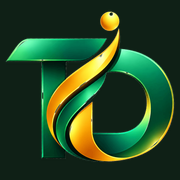
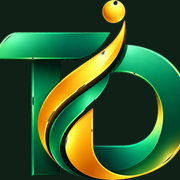
Update WhatsApp/phone number to +27 64 058 4229 site-wide
Replaced the old number (+27 79 168 4548) across every wa.me link, tel:
link, structured data telephone field, and displayed phone number —
navbar, footer, hero, contact page, checkout, onboarding, how-we-work,
payment success/cancel, the contact-form emails, lead-magnet delivery
emails, and legal pages. Also updated two form-field placeholder
examples that happened to use the old number as a format example.

QR codes in public/assets/qr/ are unaffected — they link to landing
page URLs, not the phone number, so nothing there needed regenerating.

Also picked up tishbiteIcon.png, which was re-saved as a larger, fully
transparent version outside this session (not by me) — regenerated the
favicon/apple-touch-icon from it to match.

diff --git a/components/ContactPageContent.jsx b/components/ContactPageContent.jsx
@@ -124,11 +124,11 @@ export default function ContactPageContent() {
                   Whether you need a professional website, CRM integration, automation system, or SEO-driven marketing strategy — we structure systems that scale your business.
                 </p>
                 <div className="space-y-3 mb-5">
-                  <a href="tel:+27791684548" className="flex items-center gap-3 text-white/80 hover:text-accent transition-colors no-underline text-sm">
+                  <a href="tel:+27640584229" className="flex items-center gap-3 text-white/80 hover:text-accent transition-colors no-underline text-sm">
                     <div className="w-9 h-9 rounded-xl bg-white/10 flex items-center justify-center shrink-0">
                       <FaPhone size={14} aria-hidden="true" />
                     </div>
-                    +27 79 168 4548
+                    +27 64 058 4229
                   </a>
                   <a href="mailto:info@tishbitedigital.co.za" className="flex items-center gap-3 text-white/80 hover:text-accent transition-colors no-underline text-sm">
                     <div className="w-9 h-9 rounded-xl bg-white/10 flex items-center justify-center shrink-0">
@@ -138,7 +138,7 @@ export default function ContactPageContent() {
                   </a>
                 </div>
                 <motion.a
-                  href="https://wa.me/27791684548?text=Hello%20Tishbite%20Digital,%20I%20want%20a%20free%20website%20and%20SEO%20audit."
+                  href="https://wa.me/27640584229?text=Hello%20Tishbite%20Digital,%20I%20want%20a%20free%20website%20and%20SEO%20audit."
                   target="_blank"
                   rel="noopener noreferrer"
                   className="flex items-center justify-center gap-2 bg-[#25d366] text-white font-bold py-3 rounded-xl no-underline text-sm"
@@ -322,7 +322,7 @@ export default function ContactPageContent() {
                         We'll be in touch within <strong>24 hours</strong>. Want a faster response?
                       </p>
                       <motion.a
-                        href="https://wa.me/27791684548?text=Hi%20Tishbite%20Digital,%20I%20just%20submitted%20an%20enquiry%20and%20would%20love%20to%20chat."
+                        href="https://wa.me/27640584229?text=Hi%20Tishbite%20Digital,%20I%20just%20submitted%20an%20enquiry%20and%20would%20love%20to%20chat."
                         target="_blank"
                         rel="noopener noreferrer"
                         className="inline-flex items-center gap-2 bg-[#25d366] text-white font-bold px-4 py-2 rounded-lg text-sm no-underline"

diff --git a/app/api/contact/route.js b/app/api/contact/route.js
@@ -50,7 +50,7 @@ function buildNotificationHtml({ name, email, service, message }) {
     </div>
 
     <div style="background:#f9fafb;padding:16px 32px;text-align:center;font-size:12px;color:#9ca3af;border-top:1px solid #e5e7eb;">
-      Tishbite Digital · info@tishbitedigital.co.za · +27 79 168 4548
+      Tishbite Digital · info@tishbitedigital.co.za · +27 64 058 4229
     </div>
   </div>
 </body>
@@ -83,7 +83,7 @@ function buildAutoReplyHtml({ name, service, message }) {
         <ul style="margin:0;padding-left:18px;color:#555;font-size:13px;">
           <li style="margin-bottom:6px;">We'll review your enquiry and prepare a tailored response</li>
           <li style="margin-bottom:6px;">One of our specialists will contact you within 24 hours</li>
-          <li>For urgent matters, WhatsApp us at <a href="https://wa.me/27791684548" style="color:#1b4332;font-weight:bold;">+27 79 168 4548</a></li>
+          <li>For urgent matters, WhatsApp us at <a href="https://wa.me/27640584229" style="color:#1b4332;font-weight:bold;">+27 64 058 4229</a></li>
         </ul>
       </div>
 
@@ -95,7 +95,7 @@ function buildAutoReplyHtml({ name, service, message }) {
 
     <div style="background:#1b4332;padding:20px 32px;text-align:center;">
       <p style="margin:0 0 8px;color:rgba(255,255,255,0.9);font-weight:bold;font-size:14px;">Tishbite Digital</p>
-      <p style="margin:0;color:rgba(255,255,255,0.6);font-size:12px;">info@tishbitedigital.co.za · +27 79 168 4548 · tishbitedigital.co.za</p>
+      <p style="margin:0;color:rgba(255,255,255,0.6);font-size:12px;">info@tishbitedigital.co.za · +27 64 058 4229 · tishbitedigital.co.za</p>
     </div>
   </div>
 </body>

diff --git a/lib/leadOffers.js b/lib/leadOffers.js
@@ -229,7 +229,7 @@ export const LEAD_OFFER_EMAILS = {
       <p style="margin:0 0 16px;">Thanks for requesting a free 15-minute strategy call!</p>
       <p style="margin:0 0 16px;">We'll message you on WhatsApp shortly to confirm a time that works for you. If you gave us a preferred day/time, we'll try to match it.</p>
       <p style="margin:0 0 16px;">In the meantime, if you'd like to get started straight away, feel free to message us directly:</p>
-      <a href="https://wa.me/27791684548" style="display:inline-block;background:#25d366;color:#fff;padding:12px 24px;border-radius:8px;text-decoration:none;font-weight:bold;font-size:14px;">Chat on WhatsApp</a>
+      <a href="https://wa.me/27640584229" style="display:inline-block;background:#25d366;color:#fff;padding:12px 24px;border-radius:8px;text-decoration:none;font-weight:bold;font-size:14px;">Chat on WhatsApp</a>
     `,
   },
 };

diff --git a/components/OnboardingPageContent.jsx b/components/OnboardingPageContent.jsx
@@ -164,7 +164,7 @@ export default function OnboardingPageContent() {
                 We&apos;ll review your answers and come back to you within 24 hours with next steps and a tailored quote.
               </p>
               <motion.a
-                href="https://wa.me/27791684548?text=Hi%20Tishbite%20Digital,%20I%20just%20completed%20the%20onboarding%20form."
+                href="https://wa.me/27640584229?text=Hi%20Tishbite%20Digital,%20I%20just%20completed%20the%20onboarding%20form."
                 target="_blank"
                 rel="noopener noreferrer"
                 className="inline-flex items-center gap-2 bg-[#25d366] text-white font-bold px-5 py-3 rounded-xl text-sm no-underline"

diff --git a/app/page.js b/app/page.js
@@ -66,7 +66,7 @@ const homeStructuredData = {
       },
       contactPoint: {
         "@type": "ContactPoint",
-        telephone: "+27791684548",
+        telephone: "+27640584229",
         contactType: "customer service",
         availableLanguage: ["English"],
         areaServed: "ZA",
@@ -78,7 +78,7 @@ const homeStructuredData = {
       "@id": "https://www.tishbitedigital.co.za/#localbusiness",
       name: "Tishbite Digital",
       url: "https://www.tishbitedigital.co.za/",
-      telephone: "+27791684548",
+      telephone: "+27640584229",
       priceRange: "R2500 – R30000+",
       currenciesAccepted: "ZAR",
       paymentAccepted: "Cash, EFT, Installment Plans",

diff --git a/components/Hero.jsx b/components/Hero.jsx
@@ -153,7 +153,7 @@ export default function Hero() {
               </motion.div>
 
               <motion.a
-                href="https://wa.me/27791684548?text=Hello%20Tishbite%20Digital,%20I%20want%20a%20free%20website%20and%20SEO%20audit."
+                href="https://wa.me/27640584229?text=Hello%20Tishbite%20Digital,%20I%20want%20a%20free%20website%20and%20SEO%20audit."
                 target="_blank"
                 rel="noopener noreferrer"
                 className="inline-flex items-center gap-2 px-5 py-3.5 rounded-xl bg-linear-to-r from-accent to-accent-light text-primary-dark border border-[rgba(196,146,28,0.35)] font-bold text-[0.98rem] no-underline"

diff --git a/components/HowWeWorkPageContent.jsx b/components/HowWeWorkPageContent.jsx
@@ -187,7 +187,7 @@ export default function HowWeWorkPageContent() {
             </motion.div>
 
             <motion.a
-              href="https://wa.me/27791684548?text=Hi%20Tishbite%20Digital,%20I%20want%20to%20understand%20your%20process%20and%20see%20if%20we%20are%20a%20good%20fit."
+              href="https://wa.me/27640584229?text=Hi%20Tishbite%20Digital,%20I%20want%20to%20understand%20your%20process%20and%20see%20if%20we%20are%20a%20good%20fit."
               target="_blank"
               rel="noopener noreferrer"
               className="inline-flex items-center gap-2 px-6 py-3 rounded-xl text-white font-bold border border-white/20 no-underline"

diff --git a/components/Footer.jsx b/components/Footer.jsx
@@ -169,12 +169,12 @@ export default function Footer() {
             </h6>
             <div className="space-y-2 mb-4">
               <motion.a
-                href="tel:+27791684548"
+                href="tel:+27640584229"
                 className="block text-white/60 text-sm no-underline"
                 whileHover={{ color: "var(--color-accent, #f4c95d)", x: 3 }}
                 transition={{ type: "spring", stiffness: 300, damping: 20 }}
               >
-                📞 +27 79 168 4548
+                📞 +27 64 058 4229
               </motion.a>
               <motion.a
                 href="mailto:info@tishbitedigital.co.za"

diff --git a/components/LeadForm.jsx b/components/LeadForm.jsx
@@ -186,7 +186,7 @@ export default function LeadForm({ offer, extraData }) {
             value={form.whatsapp}
             onChange={handleChange}
             autoComplete="tel"
-            placeholder="e.g. 079 168 4548"
+            placeholder="e.g. 064 058 4229"
             className="w-full rounded-xl border border-primary/15 bg-white px-3.5 py-2.5 text-sm text-text-dark placeholder-text-muted/60 focus:outline-none focus:ring-2 focus:ring-primary/30 focus:border-primary transition-all duration-200"
           />
         </div>

diff --git a/app/payment/success/page.js b/app/payment/success/page.js
@@ -33,7 +33,7 @@ export default function PaymentSuccessPage() {
 
         <div className="flex flex-col sm:flex-row gap-3 justify-center">
           <a
-            href="https://wa.me/27791684548"
+            href="https://wa.me/27640584229"
             target="_blank"
             rel="noopener noreferrer"
             className="inline-flex items-center justify-center gap-2 px-5 py-3 rounded-xl bg-[#25d366] text-white font-bold text-sm no-underline hover:-translate-y-0.5 hover:shadow-md transition-all duration-300"

diff --git a/components/WhatsAppFloat.jsx b/components/WhatsAppFloat.jsx
@@ -67,7 +67,7 @@ export default function WhatsAppFloat() {
 
             {/* Button */}
             <motion.a
-              href="https://wa.me/27791684548?text=Hello%20Tishbite%20Digital,%20I%20am%20interested%20in%20your%20services."
+              href="https://wa.me/27640584229?text=Hello%20Tishbite%20Digital,%20I%20am%20interested%20in%20your%20services."
               target="_blank"
               rel="noopener noreferrer"
               aria-label="Chat with Tishbite Digital on WhatsApp"

diff --git a/components/MobileStickyBar.jsx b/components/MobileStickyBar.jsx
@@ -28,7 +28,7 @@ export default function MobileStickyBar() {
         <FaArrowRight size={11} aria-hidden="true" />
       </Link>
       <motion.a
-        href="https://wa.me/27791684548?text=Hello%20Tishbite%20Digital,%20I%20am%20interested%20in%20your%20services."
+        href="https://wa.me/27640584229?text=Hello%20Tishbite%20Digital,%20I%20am%20interested%20in%20your%20services."
         target="_blank"
         rel="noopener noreferrer"
         aria-label="Chat on WhatsApp"
